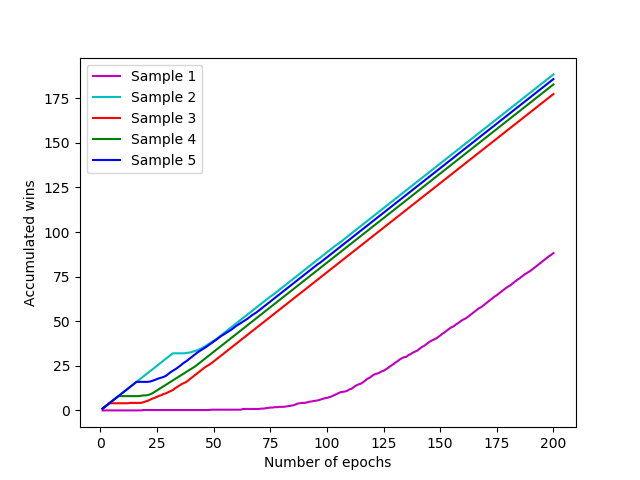
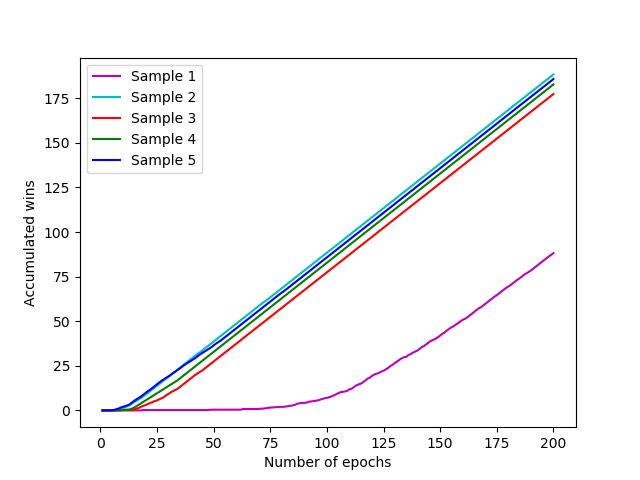
work

Changed region(s): [[0.1562, 0.625, 0.4062, 0.875], [0.4062, 0.5312, 0.5, 0.625], [0.5, 0.5, 0.5312, 0.5312]]

diff --git a/misc/plot_frozen_imi_result.py b/misc/plot_frozen_imi_result.py
@@ -110,20 +110,43 @@ def plot_frozen_imi_res(dir):
         break
 
 
+def how_much_imi(file_name):
+    nr_chars_in_name = 18  # How many chars before parmas start
+    divide_by = 6
+
+    cut_name = file_name[nr_chars_in_name:]
+    split = cut_name.split('_')
+    imi = split[3]
+
+    nr_imi = int(imi[3:])
+
+    print(f"name {file_name} \n Cut name: {cut_name} \n split {split} \n imi {imi} \n nr_imi {nr_imi}")
+
+    return int(nr_imi / divide_by)
+
 def calc_avg_win(dir, files):
     tot_win = []
     epochs = []
     first_file = True
 
     for file in files:
+        skipp_epochs = how_much_imi(file)
+        score_when_skipped = 0
 
         with open(join(dir, file), 'r') as csv_file:
             data = csv.reader(csv_file, delimiter=',')
 
             for row in data:
                 # Parse data
-                epoch = int(row[0])
+                epoch = int(row[0]) - skipp_epochs
                 win = int(row[2])
+
+                if epoch <= 0:
+                    score_when_skipped = win
+                    continue
+
+                # Compensate for skipped score
+                win = win - score_when_skipped
 
                 if first_file:
                     epochs.append(epoch)
@@ -133,9 +156,15 @@ def calc_avg_win(dir, files):
 
         first_file = False
 
+    # Padd with wins
+    while len(tot_win) != 200:
+        tot_win.append(tot_win[-1] + len(files))
+        epochs.append(epochs[-1] + 1)
+
     # Calc avg
     avg_win = list(map(lambda x: float(x) / (len(files)), tot_win))
     return epochs, avg_win
+
 
 # Plot one plot with all runs avg
 def plot_frozen_imi_res_avg(dir):

diff --git a/misc/plot_MTB_result.py b/misc/plot_MTB_result.py
@@ -279,6 +279,10 @@ def plot_mtb_heatmap(dir):
 
         _, avg_win = calc_avg_win(dir, files)
 
+        print(f"avg_win {avg_win[-1]}")
+        avg_win[-1] = avg_win[-1] / 800
+        print(f"avg_win {avg_win[-1]}")
+
         if not_tracked_key in all_values:
             values = all_values[not_tracked_key]
 
@@ -298,7 +302,7 @@ def plot_mtb_heatmap(dir):
         # Sort fame to like
         frame.sort_index(axis=1, inplace=True)
         frame.sort_index(axis=0, ascending=False, inplace=True)
-        sns.heatmap(frame, annot=True, fmt='.0f', vmax=210)
+        sns.heatmap(frame, annot=True, vmax=0.25)
 
         print(f"Not tracked {not_tracked}")
         epsilon_val = ''.join([str(i) for i in not_tracked[:-5] if i.isdigit() or i == '.'])
@@ -314,4 +318,4 @@ def plot_mtb_heatmap(dir):
 
 # plot_mtb_res_avg("../Data/MTB/train")
 # plot_mtb_res("../Data/Frozen/train")
-# plot_mtb_heatmap("../Data/MTB/valid")
+plot_mtb_heatmap("../Data/MTB/valid")
